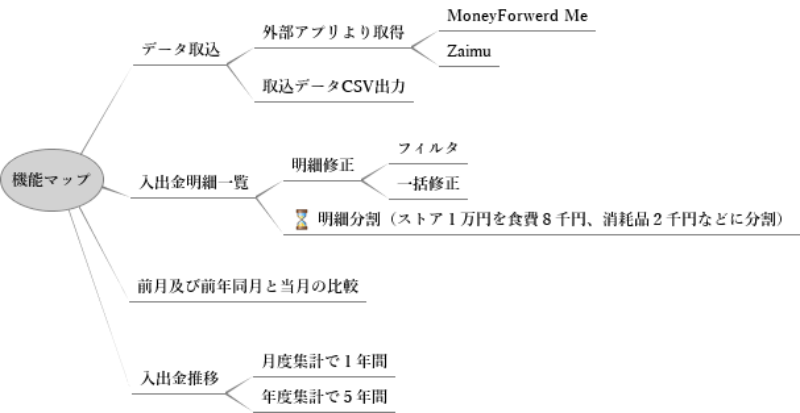
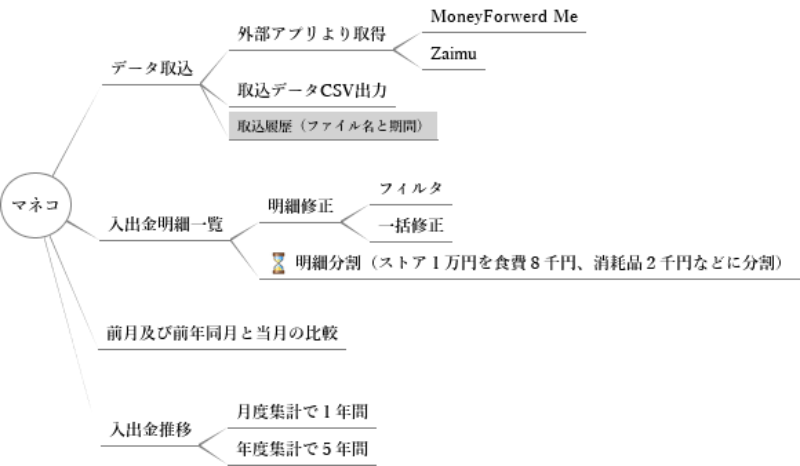
ver1.09.1:取込履歴追加

diff --git a/script/dataset_vue3.js b/script/dataset_vue3.js
@@ -177,6 +177,8 @@ const dataset = (Where_to_use) => createApp({
 			params.append(`start`, start) //月度算出対象範囲
 			params.append(`end`, end)     //月度算出対象範囲
 			params.append(`mode`, mode)
+			params.append(`filename`, readfilename.value)     //月度算出対象範囲
+			console_log(`ファイル名：${readfilename.value}`)
 			
 			console_log(`${start} ～ ${end}`)
 			//console_log(csv)
@@ -452,9 +454,10 @@ const dataset = (Where_to_use) => createApp({
 					if(pagename.value==="index.php"){
 						read_db_meisai()
 					}
-
 				})
 				.catch((error) => console.log(error));
+
+				get_import_log()
 			}
 
 		})
@@ -467,6 +470,17 @@ const dataset = (Where_to_use) => createApp({
 			readdata_filter.value[index][colom] = readdata_filter.value[index][`fl_${colom}`]
 		}
 
+		const import_log = ref([])
+		const get_import_log = () =>{
+			axios
+			.get(`ajax_read_db_importlog.php`)
+			.then((response) => {
+				console_log(response.data.import_log)
+				import_log.value = response.data.import_log
+				console_log('ajax_read_db_importlog succsess')
+			})
+			.catch((error) => console.log(error));
+		}
 		return{
 			upd,
 			readdata,
@@ -507,6 +521,7 @@ const dataset = (Where_to_use) => createApp({
 			meisai_disable,
 			cgmode,
 			loader,
+			import_log,
 		}
 	}
 });

diff --git a/css/style.css b/css/style.css
@@ -170,6 +170,14 @@ footer{
 	text-decoration: none;
 	font-size:16px;
 }
+.import_log{
+	position:fixed;
+	bottom:10px;
+	left:10px;
+	color:#FFA400;
+	text-decoration: none;
+	font-size:16px;
+}
 
 .v-enter-active,
 .v-leave-active {
@@ -193,7 +201,9 @@ footer{
 	width:50px;
 	font-size:12px;
 }
-
+.menu_btn{
+	width:120px;
+}
 
 
 /*ローディングアニメーション*/

diff --git a/data_custmer.php b/data_custmer.php
@@ -51,16 +51,16 @@
 			  	  				</li>
                   </ul>
                   <div class="d-flex" style='padding:5px;'>
-                    <button class='btn btn-outline-primary' type='button' @click='input_file_btn'>ファイル選択</button>
+                    <button class='btn btn-outline-primary menu_btn' type='button' @click='input_file_btn'>ファイル選択</button>
                   </div>
                   <div class="d-flex" style='padding:5px;'>
-                    <button class='btn btn-outline-primary' type='button' @click='clear_data'>表示クリア</button>
+                    <button class='btn btn-outline-primary menu_btn' type='button' @click='clear_data'>表示クリア</button>
                   </div>
                   <div v-if='pagename.includes("imp")' class="d-flex" style='padding:5px;'>
-                    <button class='btn btn-outline-primary' type='button' @click='savedata'>システム登録</button>
+                    <button class='btn btn-outline-primary menu_btn' type='button' @click='savedata'>システム登録</button>
                   </div>
                   <div class="d-flex" style='padding:5px;'>
-                    <button class='btn btn-outline-primary' type='button' @click='savecsv'>CSV出力</button>
+                    <button class='btn btn-outline-primary menu_btn' type='button' @click='savecsv'>CSV出力</button>
                   </div>
                   <div class="d-flex" style='padding:5px;'>
                     <a href="user_setting.php" class='a_none'><h2><i class="bi bi-person-circle"></i></h2></a>
@@ -199,7 +199,40 @@
         </table>
       </div>
       <div class='logoff'><a href="logoff.php" class='a_none'><h1><i class="bi bi-box-arrow-right"></i></h1></a></div>
+      <div class='import_log'><a href="logoff.php" class='a_none' data-bs-toggle='modal' data-bs-target='#taisosiki'><h1><i class="bi bi-file-text"></i></h1></a></div>
     </MAIN>
+    <div class='modal fade' id='taisosiki' tabindex='-1' role='dialog' aria-labelledby='basicModal' aria-hidden='true'>
+			<div class='modal-dialog  modal-dialog-centered modal-dialog-scrollable'>
+				<div class='modal-content edit' style=''>
+					<div class='modal-header'>
+	      		<h5 class="modal-title">ファイル取込履歴</h5>
+  	    		<button type="button" class="btn-close" data-bs-dismiss="modal" aria-label="Close"></button>
+					</div>
+					<div class='modal-body container'>
+              <div class='row'>
+                <table class="table">
+                  <thead>
+                    <tr>
+                    <th>取込日時</th>
+                    <th>対象期間</th>
+                    <th>ファイル名</th>
+                    </tr>
+                  </thead>
+                  <tbody>
+                    <tr v-for='(list,index) in import_log' :key='list.ins_datetime'>
+                    <td>{{list.ins_datetime}}</td>
+                    <td>{{list.from_ymd}}～{{list.to_ymd}}</td>
+                    <td>{{list.filename}}</td>
+                    </tr>
+                  </tbody>
+                </table>
+              </div>
+					</div>
+					<div class='modal-footer'>
+					</div>
+				</div>
+			</div>
+		</div>
     <div class="loader-wrap" v-show='loader'>
 		  <div class="loader">Loading...</div>
 	  </div>

diff --git a/ajax_ins_db.php b/ajax_ins_db.php
@@ -8,6 +8,8 @@
   $dataset = json_decode($_POST["csv"], true);
   $start_date = $_POST["start"];
   $end_date = $_POST["end"];
+  $filename = $_POST["filename"];
+  log_writer("\$POST",$_POST);
 
   try{
     $pdo_h->beginTransaction();
@@ -24,12 +26,7 @@
       $stmt->bindValue("uid", $_SESSION["uid"], PDO::PARAM_STR);
       $stmt2->execute();
     }
-    /*
-    $stmt = $pdo_h->prepare("delete from kakeibo_plus where guid in ( select guid from kakeibo where date between :start and :end)");
-    $stmt->bindValue("start", $start_date, PDO::PARAM_STR);
-    $stmt->bindValue("end", $end_date, PDO::PARAM_STR);
-    $stmt->execute();
-    */
+
     $stmt = $pdo_h->prepare("delete from kakeibo where date between :start and :end and uid = :uid");
     $stmt->bindValue("start", $start_date, PDO::PARAM_STR);
     $stmt->bindValue("end", $end_date, PDO::PARAM_STR);
@@ -65,7 +62,19 @@
       $stmt2->execute();
     }
     
+    
+    //ログを追記
+    $sql = "insert into import_log(id,filename,from_ymd,to_ymd) values(:uid,:filename,:start,:end)";
+    $stmt = $pdo_h->prepare($sql);
+    $stmt->bindValue("uid", $_SESSION["uid"], PDO::PARAM_STR);
+    $stmt->bindValue("filename", $filename, PDO::PARAM_STR);
+    $stmt->bindValue("start", $start_date, PDO::PARAM_STR);
+    $stmt->bindValue("end", $end_date, PDO::PARAM_STR);
+    $stmt->execute();
+    $stmt->fetchAll(PDO::FETCH_ASSOC);
+    
     $pdo_h->commit();
+    
     upd_getudo($pdo_h,$start_date,$end_date);
     $return = "success";
   }catch(Exception $e){

diff --git a/ajax_read_db_importlog.php b/ajax_read_db_importlog.php
@@ -1,0 +1,23 @@
+<?php
+  require "php_header.php";
+
+  //log_writer('\$_SESSION["uid"]',++$a);
+  log_writer('\$_SESSION["uid"]',$_SESSION["uid"]);
+  $sql = "select *
+    from import_log
+    where id = :uid
+    order by ins_datetime desc LIMIT 24";
+	$stmt = $pdo_h->prepare($sql);
+	$stmt->bindValue("uid", $_SESSION["uid"], PDO::PARAM_STR);
+	$stmt->execute();
+	$import_log = $stmt->fetchAll(PDO::FETCH_ASSOC);
+  log_writer('\$import_log',$import_log);
+
+  $return = array(
+    "import_log" => $import_log
+  );
+
+  header('Content-type: application/json');  
+  echo json_encode($return, JSON_UNESCAPED_UNICODE);
+  exit();
+?>
